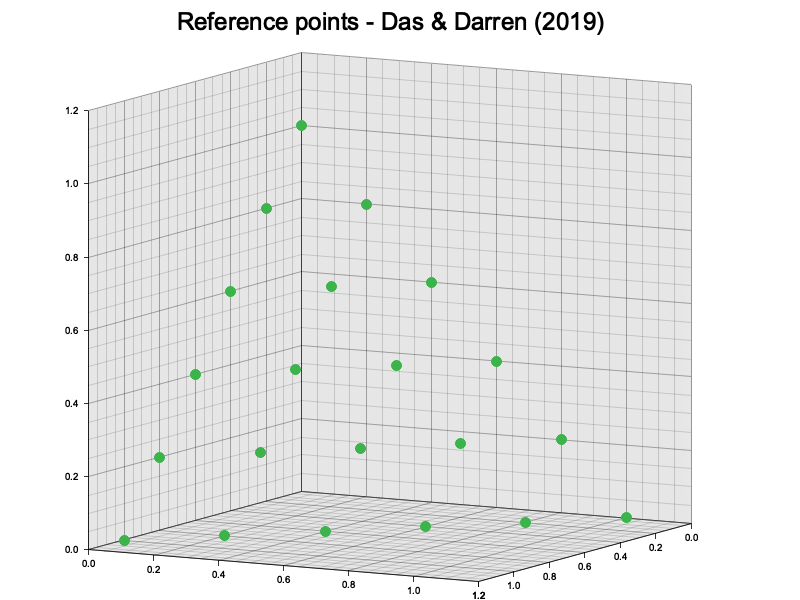
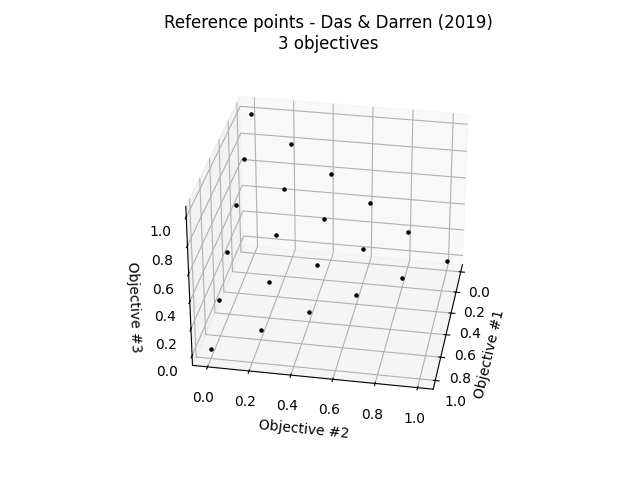
Updated reference point examples to use new serialise function and removed rust plot calls Added Python scripts to plot serialised reference points

diff --git a/examples/reference_points_2layers.rs b/examples/reference_points_2layers.rs
@@ -22,9 +22,14 @@ fn main() -> Result<(), OError> {
     let weights = m.get_weights();
     println!("Weights = {:?}", weights);
 
-    // Save the charts of points to inspect them
+    // Save the serialise data to inspect them
     let out_path = PathBuf::from(&env::current_dir().unwrap())
         .join("examples")
-        .join("results");
-    m.plot(&out_path.join("ref_points_2layers_3obj_5gaps.png"))
+        .join("results")
+        .join("ref_points_2layers_3obj_5gaps.json");
+    DasDarren1998::serialise(&weights, &out_path)?;
+
+    // You can plot the data by running reference_points_2layers_plot.py
+
+    Ok(())
 }

diff --git a/examples/reference_points_1layer.rs b/examples/reference_points_1layer.rs
@@ -18,9 +18,14 @@ fn main() -> Result<(), OError> {
     let weights = m.get_weights();
     println!("Weights = {:?}", weights);
 
-    // Save the charts of points to inspect them
+    // Save the serialise data to inspect them
     let out_path = PathBuf::from(&env::current_dir().unwrap())
         .join("examples")
-        .join("results");
-    m.plot(&out_path.join("ref_points_3obj_5gaps.png"))
+        .join("results")
+        .join("ref_points_3obj_5gaps.json");
+    DasDarren1998::serialise(&weights, &out_path)?;
+
+    // You can plot the data by running reference_points_1layer_plot.py
+
+    Ok(())
 }

diff --git a/examples/reference_points_2layers_plot.py b/examples/reference_points_2layers_plot.py
@@ -1,0 +1,12 @@
+import json
+from pathlib import Path
+
+import matplotlib.pyplot as plt
+from optirustic import plot_reference_points
+
+# Plot a 3D chart with the reference points
+result_folder = Path(__file__).parent / "results"
+with open(result_folder / "ref_points_2layers_3obj_5gaps.json") as fid:
+    data = json.load(fid)
+    plot_reference_points(data)
+    plt.savefig(result_folder / "ref_points_2layers_3obj_5gaps.png")

diff --git a/examples/reference_points_1layer_plot.py b/examples/reference_points_1layer_plot.py
@@ -1,0 +1,12 @@
+import json
+from pathlib import Path
+
+import matplotlib.pyplot as plt
+from optirustic import plot_reference_points
+
+# Plot a 3D chart with the reference points
+result_folder = Path(__file__).parent / "results"
+with open(result_folder / "ref_points_3obj_5gaps.json") as fid:
+    data = json.load(fid)
+    plot_reference_points(data)
+    plt.savefig(result_folder / "ref_points_1layer_3obj_5gaps.png")
